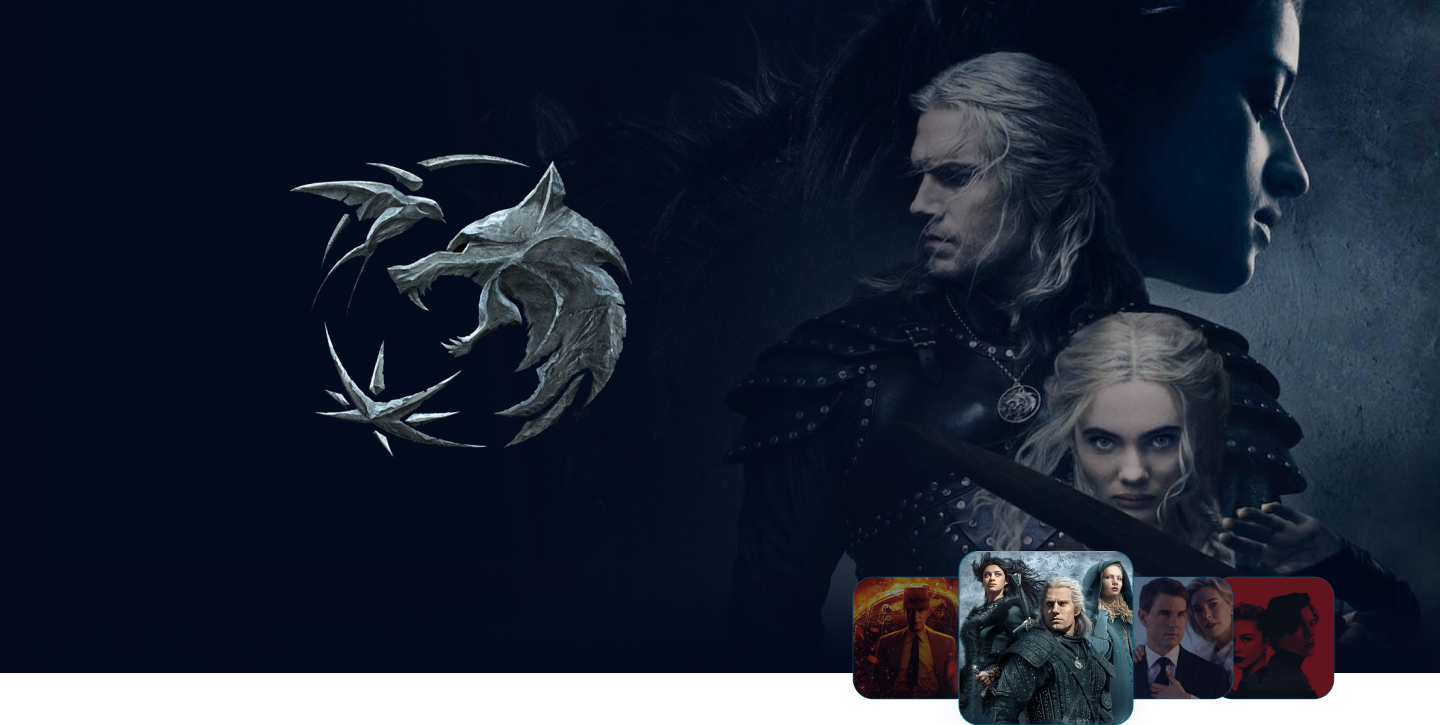
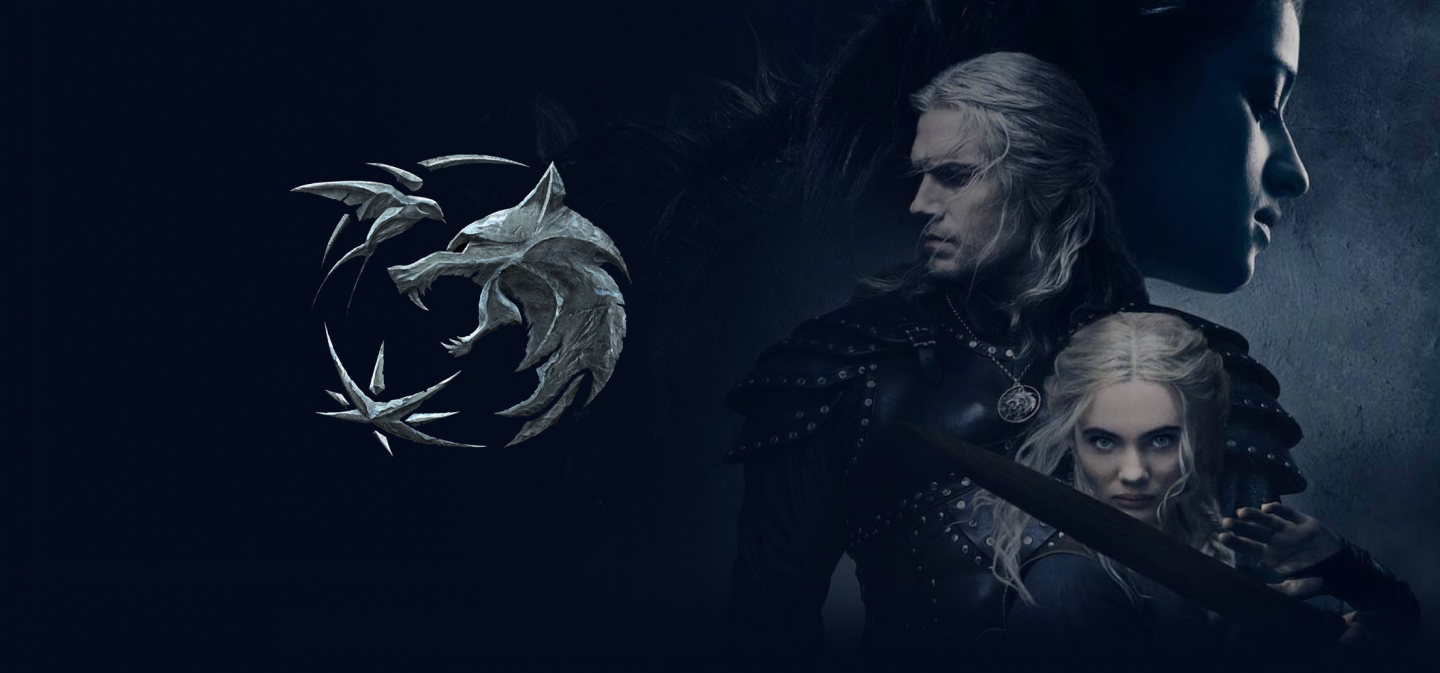
main hero responsive in all devices

diff --git a/index.css b/index.css
@@ -1,40 +1,37 @@
 .hero {
   min-height: 100vh;
-  background: url(../assets/images/heroBanner.png);
+  background: url(./assets/images/heroBanner.png);
   background-position: center;
   background-size: cover;
   display: flex;
   align-items: end;
 }
 
-.hero .hero-content {
+.hero .heroContent {
   display: flex;
   flex-direction: column;
   align-items: flex-start;
   margin-bottom: 5rem;
   gap: 0.625rem;
   color: var(--white-color);
-  max-width: 500px;
+  width: 50%;
 }
-
-.hero .hero-content h2 {
+.hero .heroContent h2 {
   font-size: 3rem;
   font-weight: bold;
 }
-
-.hero .hero-content p {
+.hero .heroContent p {
   font-size: 1rem;
   font-weight: 400;
 }
-
-.hero-content img {
+.heroContent img {
   width: 250px;
 }
-.hero .hero-content .heroBtnWrapper {
+.hero .heroContent .heroBtnWrapper {
   display: flex;
-  gap: 0.375rem;
+  gap: 0.5rem;
 }
-.hero .hero-content button {
+.hero .heroContent button {
   background: var(--blue-color);
   border-radius: 28px;
   padding: 0.625rem 1.5rem;
@@ -44,8 +41,49 @@
   align-items: center;
   cursor: pointer;
 }
-
-.hero .hero-content button:last-child {
+.hero .heroContent button:last-child {
   background-color: transparent;
   border: 1px solid var(--blue-color);
+}
+
+.hero .container {
+  display: flex;
+}
+
+.hero .posterWrapper {
+  display: flex;
+  justify-content: right;
+  align-items: flex-end;
+  width: 50%;
+}
+
+.hero .posterWrapper img {
+  width: 100%;
+  margin-bottom: 2rem;
+  max-width: 700px;
+}
+
+@media (width < 1025px) {
+  .container {
+    max-width: 48rem;
+  }
+  .hero {
+    background: url(./assets/images/heroBannerMobile.png);
+    background-size: cover;
+    background-position: center;
+    height: 90vh;
+  }
+  .hero .container {
+    flex-direction: column-reverse;
+  }
+  .hero .heroContent {
+    margin-bottom: 2rem;
+  }
+  .hero .posterWrapper {
+    justify-content: center;
+  }
+  .hero .container .heroContent,
+  .hero .container .posterWrapper {
+    width: 100%;
+  }
 }

diff --git a/components/header/index.css b/components/header/index.css
@@ -76,7 +76,7 @@ header .iconWrapper {
 .OverlayNavSidebar {
   position: fixed;
   background-color: var(--overlay-dark);
-  z-index: 0;
+  z-index: -1;
   top: 0;
   right: 0;
   left: 0;
@@ -89,9 +89,9 @@ header .iconWrapper {
   top: 0;
   bottom: 0;
   width: 100%;
-  max-width: 18.75rem;
+  max-width: 25rem;
   background-color: var(--lighter-dark-color);
-  padding: 1rem;
+  padding: 2rem;
   box-shadow: rgba(0, 0, 0, 0.35) 0px 5px 15px;
   transition: 0.4s ease all;
   transform: translateX(-100%);
@@ -146,7 +146,7 @@ header .iconWrapper {
   bottom: 0;
   left: 0;
   right: 0;
-  padding: 1rem;
+  padding: 2rem;
 }
 
 @media (width > 1024px) {
@@ -170,5 +170,10 @@ header .iconWrapper {
   header .iconWrapper {
     justify-content: flex-start;
     gap: 1rem;
+  }
+}
+@media (width < 768px) {
+  .NavSidebar {
+    max-width: 18.75rem;
   }
 }

diff --git a/index.html b/index.html
@@ -21,7 +21,7 @@
 
     <section class="hero">
       <div class="container">
-        <div class="hero-content">
+        <div class="heroContent">
           <h2>The Witcher</h2>
           <p>
             Geralt of Rivia, a mutated monster-hunter for hire, journeys toward
@@ -39,6 +39,9 @@
               <my-icon iconName="arrowRight"></my-icon>
             </button>
           </div>
+        </div>
+        <div class="posterWrapper">
+          <img src="./assets/images/FilmsPoster.png" alt="" />
         </div>
       </div>
     </section>
